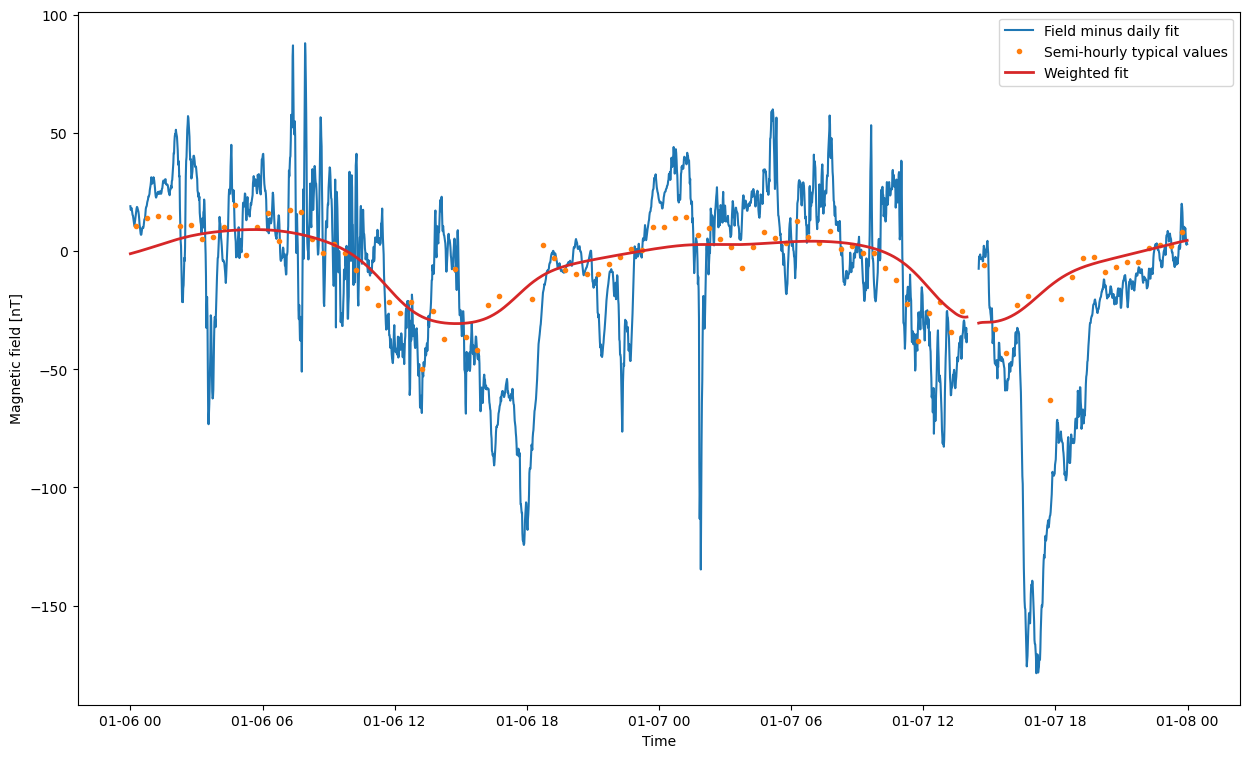
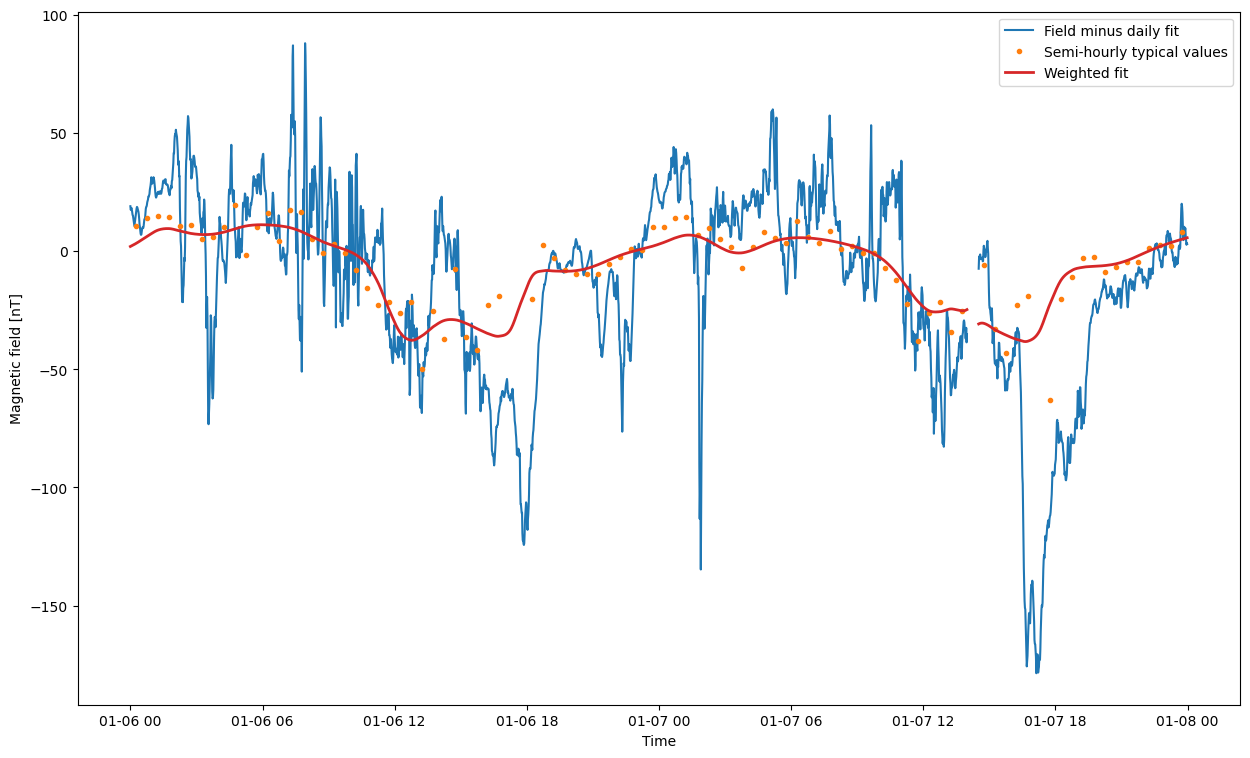
Speed-up testing

diff --git a/baseline/baseline_estimator.py b/baseline/baseline_estimator.py
@@ -129,6 +129,10 @@ class BaselineEstimator:
         - a typical value passes the `sigma <= FWHM_stat` acceptance test, or
         - the available time span is exhausted.
 
+        To avoid repeated dataframe masking in the inner loop, the per-day/per-
+        bin residual arrays and FWHM statistics are cached once up front and
+        widened incrementally as the window grows.
+
         Bins with no data on the target day are marked `missing_input` and are
         skipped immediately instead of being estimated from neighboring days.
         """
@@ -248,8 +252,7 @@ class BaselineEstimator:
                         else np.nan
                     )
                     
-                    need_diagnostics = plot_this_diagnostic
-                    if need_diagnostics:
+                    if plot_this_diagnostic:
                         mu, sigma, diag = self._estimate_typical_value(
                             vals,
                             return_diagnostics=True,
@@ -280,14 +283,35 @@ class BaselineEstimator:
                     last_mu = mu
                     last_sigma = sigma
                     last_fwhm_stat = FWHM_stat
-                    sigma_weight = get_weight_sigma(vals, mu, sigma)
-                    last_sigma_weight = sigma_weight
 
                     if not np.isfinite(mu) or not np.isfinite(sigma):
                         status_value = "typical_value_failed"
-                        window_days += 2
+                        (
+                            window_days,
+                            current_lo,
+                            current_hi,
+                            current_chunks,
+                            n_samples,
+                            fwhm_sum_window,
+                            fwhm_count_window,
+                        ) = _expand_step_1c_window(
+                            day_idx=day_idx,
+                            num_days=days.size,
+                            current_window_days=window_days,
+                            max_window_days=max_window_days,
+                            current_lo=current_lo,
+                            current_hi=current_hi,
+                            current_chunks=current_chunks,
+                            current_n_samples=n_samples,
+                            residual_day_arrays=residuals_by_bin[b],
+                            fwhm_sums_bin=fwhm_sums[:, b],
+                            fwhm_counts_bin=fwhm_counts[:, b],
+                            current_fwhm_sum=fwhm_sum_window,
+                            current_fwhm_count=fwhm_count_window,
+                        )
                         continue
-                    
+
+                    last_sigma_weight = get_weight_sigma(vals, mu, sigma)
                     last_fwhm = 2.355 * sigma
 
                     # Eq. 8 compares Gaussian sigma directly to the empirical
@@ -295,7 +319,6 @@ class BaselineEstimator:
                     # to Gaussian FWHM for the acceptance test.
                     if np.isfinite(sigma) and sigma <= FWHM_stat:
                         value = mu
-                        last_sigma_weight = get_weight_sigma(vals, mu, sigma)
                         status_value = "ok"
                         break
                     status_value = "fwhm_rejected"
@@ -1016,7 +1039,15 @@ def _add_step_1c_per_day_diagnostics(diagnostics, day_values, day_arrays, target
 
 
 def _prepare_step_1c_day_bin_cache(df, days):
-    """Precompute per-day/per-bin arrays so Step 1c avoids repeated dataframe masking."""
+    """
+    Precompute per-day/per-bin arrays for the Step 1c inner loop.
+
+    This turns the original repeated dataframe masking into direct numpy-array
+    access for:
+    - target-day finite sample counts
+    - residual samples grouped by day and 30-minute bin
+    - summed/count FWHM statistics for the same grid
+    """
     num_days = len(days)
     num_bins = 48
     empty = np.empty(0, dtype=float)
@@ -1073,7 +1104,12 @@ def _expand_step_1c_window(
     current_fwhm_sum,
     current_fwhm_count,
 ):
-    """Expand one Step 1c day window by two days and update cached aggregates."""
+    """
+    Expand one Step 1c day window by two days and update cached aggregates.
+
+    The returned `current_chunks`, sample count, and FWHM accumulators stay in
+    sync with the returned `window_days/current_lo/current_hi` state.
+    """
     next_window_days = current_window_days + 2
     if next_window_days > max_window_days:
         return (
